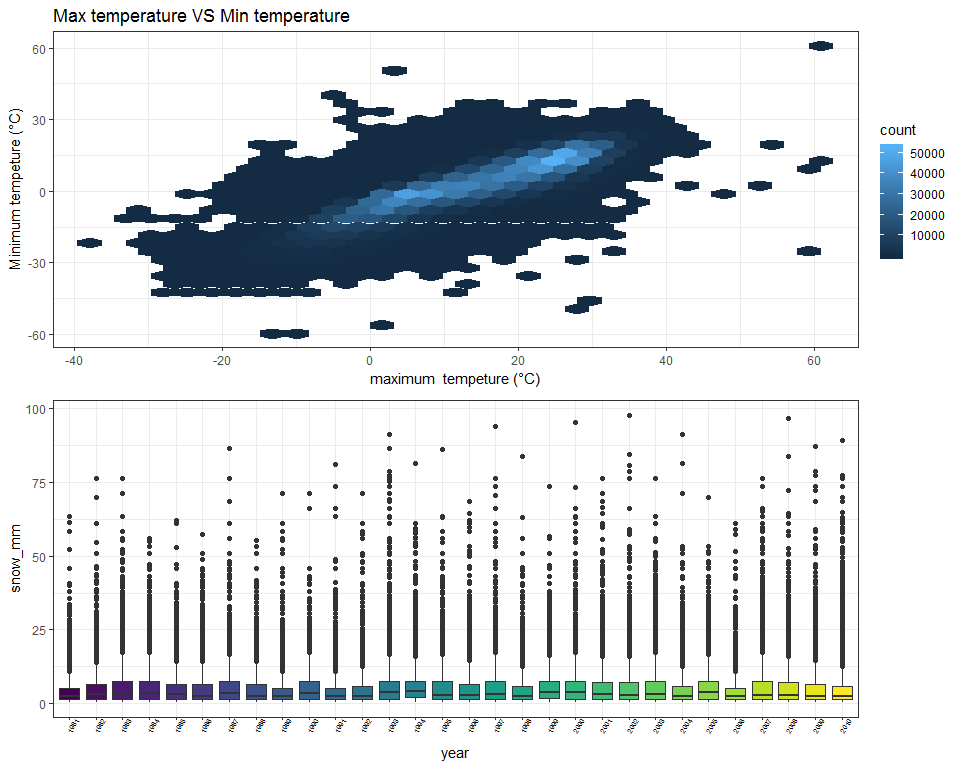
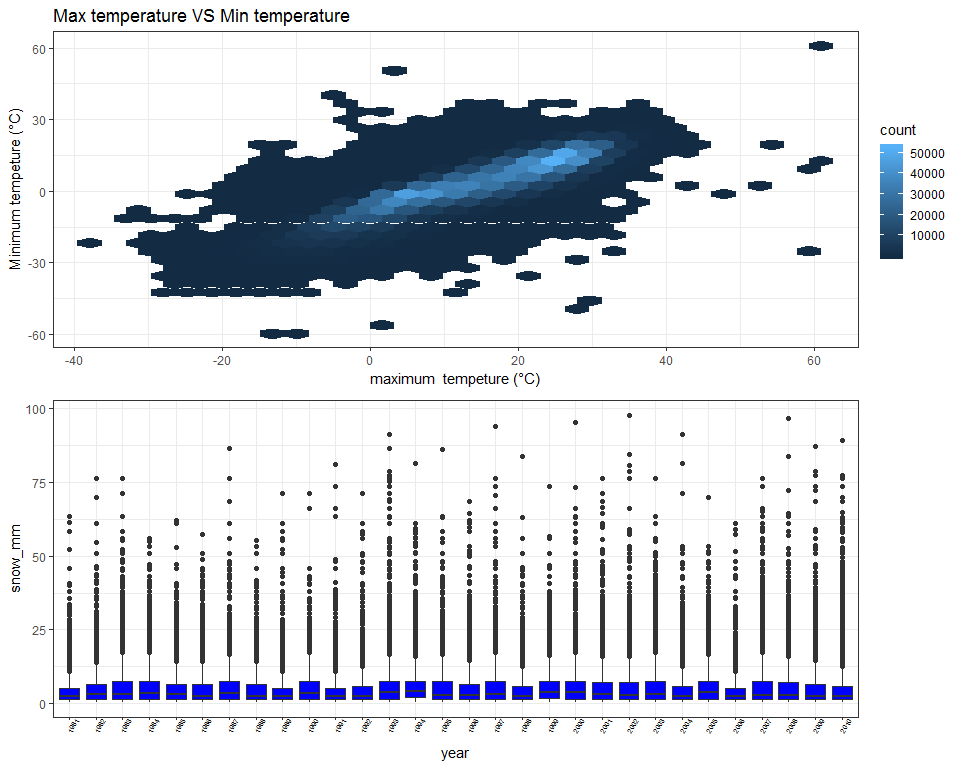
made the table "mean hour of the orders" in problem 2 more reasonable

Changed region(s): [[0.0625, 0.875, 0.9062, 0.9062]]

diff --git a/p8105_hw3_hh2767.md b/p8105_hw3_hh2767.md
@@ -220,25 +220,23 @@ Suppose that in the instacart data, the "order\_dow" variable indicates on which
 ``` r
 instacart = instacart
 
-  instacart %>% 
+ instacart %>% 
   filter(product_name %in% c("Pink Lady Apples", "Coffee Ice Cream")) %>% 
   group_by(product_name, order_dow) %>% 
-  summarize(mean_order_hour = mean(order_hour_of_day)) %>% 
-  spread(key = product_name, value = mean_order_hour) %>% 
-  rename(weekday = order_dow) %>% 
+  summarize(mean_order_hour = round(mean(order_hour_of_day),2)) %>% 
+    rename(weekday = order_dow) %>% 
   mutate(weekday = c("Sunday", "Monday", "Tuesday", "Wednesday", "Thursday", "Friday", "Sataurday")) %>% 
+   mutate(hour = floor(mean_order_hour), min = round(60 * (mean_order_hour - floor(mean_order_hour)))) %>% 
+   mutate(`mean hour of the orders` = paste(hour, ":", min)) %>% 
+   select(-mean_order_hour, -hour , -min) %>% 
+  spread(key = weekday, value = `mean hour of the orders`) %>% 
     knitr::kable(align = 'c', caption = "mean hour of the orders")
 ```
 
-|  weekday  | Coffee Ice Cream | Pink Lady Apples |
-|:---------:|:----------------:|:----------------:|
-|   Sunday  |     13.77419     |     13.44118     |
-|   Monday  |     14.31579     |     11.36000     |
-|  Tuesday  |     15.38095     |     11.70213     |
-| Wednesday |     15.31818     |     14.25000     |
-|  Thursday |     15.21739     |     11.55172     |
-|   Friday  |     12.26316     |     12.78431     |
-| Sataurday |     13.83333     |     11.93750     |
+|   product\_name  |  Friday |  Monday | Sataurday |  Sunday | Thursday | Tuesday | Wednesday |
+|:----------------:|:-------:|:-------:|:---------:|:-------:|:--------:|:-------:|:---------:|
+| Coffee Ice Cream | 12 : 16 | 14 : 19 |  13 : 50  | 13 : 46 |  15 : 13 | 15 : 23 |  15 : 19  |
+| Pink Lady Apples | 12 : 47 | 11 : 22 |  11 : 56  | 13 : 26 |  11 : 33 | 11 : 42 |  14 : 15  |
 
 problem 3
 =========
@@ -265,23 +263,22 @@ ny_noaa$month = plyr::mapvalues(ny_noaa$month,
           to = c("January","Feburary","March", "April", "May", "June", "July", "August", "September", "October", "November", "December"))
 
 ny_noaa %>% 
-mutate(month = factor(month, levels = c("January","Feburary","March", "April", "May", "June", "July", "August", "September", "October", "November", "December"))) %>% 
-  arrange(month)
+mutate(month = factor(month, levels = c("January","Feburary","March", "April", "May", "June", "July", "August", "September", "October", "November", "December"))) 
 ```
 
     ## # A tibble: 2,595,176 x 9
-    ##    id          year  month   day   prcp_mm snow_mm snwd_mm tmax_c tmin_c
-    ##    <chr>       <chr> <fct>   <chr>   <dbl>   <dbl>   <int>  <dbl>  <dbl>
-    ##  1 US1NYAB0001 2008  January 01        0       0       343     NA     NA
-    ##  2 US1NYAB0001 2008  January 02        8.6    10.9     445     NA     NA
-    ##  3 US1NYAB0001 2008  January 03        0       0       432     NA     NA
-    ##  4 US1NYAB0001 2008  January 04        0       0        NA     NA     NA
-    ##  5 US1NYAB0001 2008  January 05        0       0       305     NA     NA
-    ##  6 US1NYAB0001 2008  January 06        0       0       267     NA     NA
-    ##  7 US1NYAB0001 2008  January 07        0       0       191     NA     NA
-    ##  8 US1NYAB0001 2008  January 08        0       0        89     NA     NA
-    ##  9 US1NYAB0001 2008  January 09        0       0        38     NA     NA
-    ## 10 US1NYAB0001 2008  January 10        0       0         0     NA     NA
+    ##    id          year  month    day   prcp_mm snow_mm snwd_mm tmax_c tmin_c
+    ##    <chr>       <chr> <fct>    <chr>   <dbl>   <dbl>   <int>  <dbl>  <dbl>
+    ##  1 US1NYAB0001 2007  November 01         NA      NA      NA     NA     NA
+    ##  2 US1NYAB0001 2007  November 02         NA      NA      NA     NA     NA
+    ##  3 US1NYAB0001 2007  November 03         NA      NA      NA     NA     NA
+    ##  4 US1NYAB0001 2007  November 04         NA      NA      NA     NA     NA
+    ##  5 US1NYAB0001 2007  November 05         NA      NA      NA     NA     NA
+    ##  6 US1NYAB0001 2007  November 06         NA      NA      NA     NA     NA
+    ##  7 US1NYAB0001 2007  November 07         NA      NA      NA     NA     NA
+    ##  8 US1NYAB0001 2007  November 08         NA      NA      NA     NA     NA
+    ##  9 US1NYAB0001 2007  November 09         NA      NA      NA     NA     NA
+    ## 10 US1NYAB0001 2007  November 10         NA      NA      NA     NA     NA
     ## # ... with 2,595,166 more rows
 
 ``` r
@@ -364,8 +361,8 @@ snow_plot = ny_noaa %>%
   select(-prcp_mm, -snwd_mm, -tmax_c, -tmin_c) %>% 
   filter(!is.na(snow_mm)) %>% 
   filter(snow_mm > 0 & snow_mm < 100) %>% 
-  ggplot( aes(x = year, y = snow_mm, fill = year)) +
-    geom_boxplot() + theme(legend.position = "null") + viridis::scale_fill_viridis(discrete = TRUE) + theme(axis.text.x = element_text(face = "plain", color = "black", size = 5, angle = 60))
+  ggplot( aes(x = year, y = snow_mm)) +
+    geom_boxplot(fill = "blue") + theme(legend.position = "null") + theme(axis.text.x = element_text(face = "plain", color = "black", size = 5, angle = 60))
 
 temp_plot / snow_plot
 ```
